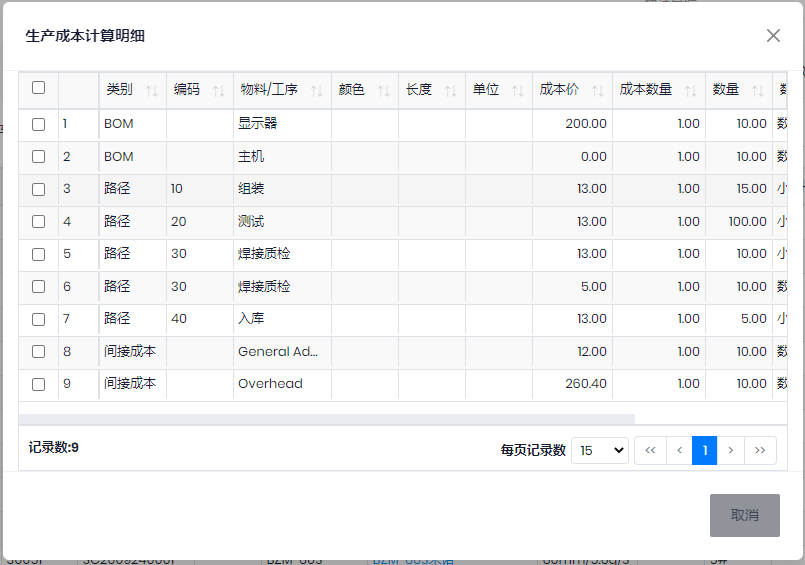
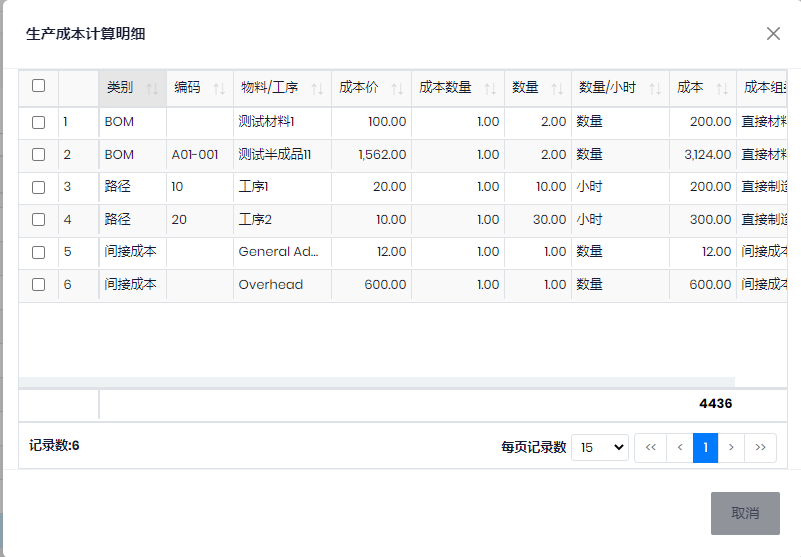
生产成本文档

diff --git a/docs/zh-Hans/Production/Cost.md b/docs/zh-Hans/Production/Cost.md
@@ -1,20 +1,25 @@
 ## 基础设置
 - 成本组: 库存管理->成本->成本组
 - 成本计算单: 设置产品成本的组成
- ![Costsheet](../images/Production/costsheet.png)
+- ![Costsheet](../images/Production/costsheet.png)
+
 - 成本类别: 计划和生产->设置->成本类别
-- 工艺路线中设置工序的`成本类别`(数量成本)和"时间成本类别"
-- 成本计算版本
+- 路径中设置"设置成本",`成本类别`(按时间计算)和`数量成本类别`(按产量计算)
+![Route Cost](../images/Production/route-cost.png)
+- 成本计算版本: 库存管理->成本->成本计算版本
 
 ## 成本计算
 - 库存管理->成本->物料成本
-- 点击计算, 填写相关信息, 会根据BOM和工艺路线计算产品的成本. 点击明细可以看成本明细
+- 在`待定价格`页, 点击计算, 填写相关信息, 会根据BOM和工艺路线计算产品的成本. 点击明细可以看成本明细
 ![Cost Calc](../images/Production/cost-calc.png)
-
-
+![Cost Calc Detail](../images/Production/cost-calc-detail.png)
+- 计算时, 如果是半成品或者计划物料, 则会分解计算成本, 如果是需要采购的原材料或者外协, 使用采购价或者`采购和销售订单使用最后一次开单的价格`(管理->设置->参数). 
+- 选择计算好的待定价格, 点击`启用`, 会转到有效价格中,并且会更新**成品或半成品**`物料`(或者对应的`物料属性`)中的成本, 在生产单的成本计算中会使用该成本计算估计成本
 ## 生产单成本
 
-- 路径中设置"设置成本","成本类别"和"时间成本类别"
-- 生产单, 点击`操作`->`成本计算`, 计算生产作业的估计成本, 并带入BOM当时的库存"成本单价". 点击`浏览`->`生产成本计算明细`可以查看成本组成
+- 路径中设置"设置成本",`成本类别`(按时间计算)和`数量成本类别`(按产量计算)
+- 生产单, 点击`操作`->`成本计算`, 计算生产作业的估计成本, 并带入半成品当时的库存"成本单价"或者半成品物料信息中的成本(参见上面的成本计算), 采购的物料使用采购价, 如果启用了`采购和销售订单使用最后一次开单的价格`, 则会使用最后一次购买的价格. 点击`浏览`->`生产成本计算明细`可以查看成本组成
 ![Est Cost](../images/Production/est-cost.png)
+
 - 生产结束后, 计算生产作业的实际成本, 点击`浏览`->`生产领料明细`, 可以查看物料成本. `生产路径交易`, 可以查看人工成本
+- 生产成本分析: 计划和生产->报表->`生产成本分析`, 可以查看估计成本和实际成本的差异.
